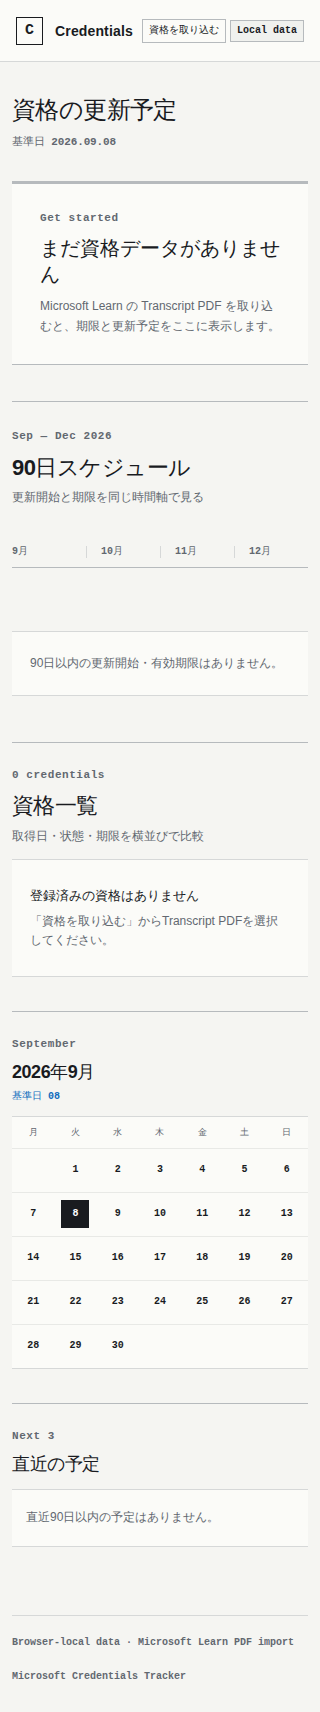
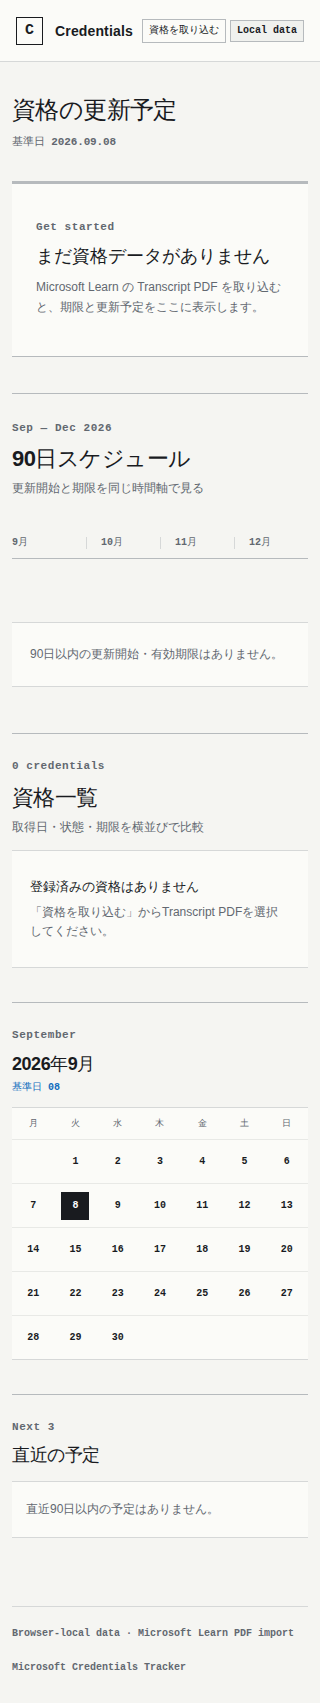
chore(pages): publish pr-21

diff --git a/pr-21/assets/index-CxZuIFb5.css b/pr-21/assets/index-CxZuIFb5.css
@@ -1,0 +1,1 @@
+.import-trigger,.dialog-close,.primary-action{border:1px solid var(--line-strong);background:var(--paper);color:var(--ink);font:inherit;cursor:pointer}.header-meta .import-trigger{margin-right:10px;padding:7px 10px;font-family:inherit;font-size:11px;font-weight:700}.import-trigger:hover,.dialog-close:hover{border-color:var(--ink)}.saved-count{border:1px solid var(--line-strong);place-items:center;min-width:21px;height:21px;margin-right:2px;font:700 10px/1 Consolas,SFMono-Regular,monospace;display:inline-grid}.import-dialog{border:1px solid var(--line-strong);background:var(--paper);width:min(760px,100vw - 32px);max-height:min(86vh,900px);color:var(--ink);padding:0;overflow:auto}.import-dialog::backdrop{background:#191b1f5c}.import-dialog-header{z-index:1;border-bottom:1px solid var(--line);background:var(--paper);justify-content:space-between;align-items:flex-start;gap:24px;padding:24px 28px 18px;display:flex;position:sticky;top:0}.import-dialog-header h2,.import-result-summary h3{margin:0}.import-dialog-header h2{font-size:22px}.dialog-close{width:34px;height:34px;padding:0;font-size:23px;line-height:1}.import-description{color:var(--muted);margin:24px 28px 0;font-size:13px;line-height:1.7}.transcript-field{gap:8px;margin:20px 28px 0;font-size:12px;font-weight:700;display:grid}.transcript-field input{box-sizing:border-box;border:1px solid var(--line-strong);width:100%;min-width:0;max-width:100%;color:var(--ink);background:#fff;padding:12px;font:12px/1.55 Consolas,SFMono-Regular,monospace;overflow:hidden}.transcript-field input[type=file]::file-selector-button{border:1px solid var(--line-strong);background:var(--paper);color:var(--ink);cursor:pointer;margin:-6px 10px -6px -6px;padding:7px 10px;font-family:inherit;font-size:11px;font-weight:700;line-height:1.3}.transcript-field small{color:var(--muted);font-size:10px;font-weight:500;line-height:1.5}.transcript-field input:focus-visible{outline:3px solid var(--focus);outline-offset:2px}.import-actions,.confirm-area{justify-content:space-between;align-items:center;gap:18px;display:flex}.import-actions{margin:14px 28px 28px}.import-actions>span,.confirm-area span{color:var(--muted);font-size:11px;line-height:1.5}.primary-action{border-color:var(--ink);background:var(--ink);color:#fff;padding:9px 13px;font-size:12px;font-weight:700}.primary-action:disabled{cursor:not-allowed;opacity:.45}.load-error{border-left:3px solid var(--warning);background:var(--warning-soft);color:var(--warning);margin:-10px 28px 24px;padding:10px 12px;font-size:12px;line-height:1.6}.import-results{border-top:1px solid var(--line-strong);padding:24px 28px 28px}.import-result-summary{grid-template-columns:minmax(0,1fr) auto;align-items:end;gap:24px;display:grid}.import-result-summary h3{font-size:18px}.import-result-summary dl{gap:20px;margin:0;display:flex}.import-result-summary dl div{text-align:right;gap:3px;display:grid}.import-result-summary dt,.candidate-list dt{color:var(--muted);font-size:10px;font-weight:700}.import-result-summary dd{margin:0;font:700 15px/1 Consolas,SFMono-Regular,monospace}.candidate-list,.exam-results ul,.import-warnings{padding:0;list-style:none}.candidate-list{border-top:1px solid var(--line);margin:20px 0 0}.candidate-list>li{border-bottom:1px solid var(--line);padding:16px 0}.candidate-title{justify-content:space-between;gap:16px;display:flex}.candidate-title strong{font-size:13px;line-height:1.5}.candidate-title>span{color:var(--muted);flex:none;font-size:10px}.candidate-list dl{grid-template-columns:repeat(3,minmax(0,1fr));gap:12px;margin:12px 0 0;display:grid}.candidate-list dl div{gap:4px;display:grid}.candidate-list dd{margin:0;font:600 11px/1.4 Consolas,SFMono-Regular,monospace}.exam-results{border-bottom:1px solid var(--line);margin-top:20px;padding-bottom:16px}.exam-results summary{cursor:pointer;font-size:12px;font-weight:700}.exam-results ul{margin:12px 0 0}.exam-results li{color:var(--muted);grid-template-columns:72px minmax(0,1fr) auto;gap:12px;padding:8px 0;font-size:11px;display:grid}.exam-results li strong{color:var(--ink);font-family:Consolas,SFMono-Regular,monospace}.import-warnings{color:var(--warning);margin:18px 0 0;font-size:11px;line-height:1.6}.import-warnings li+li{margin-top:4px}.confirm-area{border-top:1px solid var(--line-strong);margin-top:22px;padding-top:20px}.confirm-area>div{gap:5px;display:grid}.confirm-area strong{font-size:12px}.save-message{border-left:3px solid var(--active);background:var(--active-soft);margin:16px 0 0;padding:10px 12px;font-size:12px;font-weight:700}@media (width<=720px){.import-dialog-header,.import-results{padding-inline:20px}.import-description,.transcript-field,.import-actions,.load-error{margin-inline:20px}.import-result-summary{grid-template-columns:1fr;align-items:start}.import-result-summary dl{justify-content:space-between}.import-result-summary dl div{text-align:left}.candidate-list dl{grid-template-columns:1fr}.confirm-area{align-items:flex-start}}@media (width<=390px){.header-meta .import-trigger{margin-right:4px;padding:5px 6px;font-size:10px}.import-dialog{width:calc(100vw - 20px)}.import-dialog-header,.import-results{padding-inline:14px}.import-description,.transcript-field,.import-actions,.load-error{margin-inline:14px}.import-actions,.confirm-area,.candidate-title{flex-direction:column;align-items:stretch}.exam-results li{grid-template-columns:62px minmax(0,1fr)}.exam-results time{grid-column:2}}:root{color:#191b1f;font-synthesis:none;text-rendering:optimizelegibility;--ink:#191b1f;--muted:#626870;--line:#d6d8d8;--line-strong:#b6babd;--paper:#fbfbf8;--paper-alt:#f0f1ee;--azure:#0f6cbd;--azure-soft:#eaf3fb;--warning:#b84b10;--warning-soft:#fff1e8;--active:#107c10;--active-soft:#edf7ed;--permanent:#5c6370;--focus:#004578;background:#f5f5f2;font-family:Segoe UI Variable,Segoe UI,Yu Gothic UI,Hiragino Sans,Noto Sans JP,sans-serif}*{box-sizing:border-box}html{scroll-behavior:smooth}body{background:#f5f5f2;min-width:280px;min-height:100vh;margin:0}a{color:inherit}a:focus-visible,button:focus-visible,[tabindex]:focus-visible{outline:3px solid var(--focus);outline-offset:3px}.skip-link{z-index:100;border:2px solid var(--focus);background:#fff;padding:10px 14px;font-weight:700;position:fixed;top:8px;left:8px;transform:translateY(-160%)}.skip-link:focus{transform:translateY(0)}.app-shell{min-height:100vh}.site-header{border-bottom:1px solid var(--line);background:#fbfbf8fa;grid-template-columns:minmax(220px,1fr) auto minmax(220px,1fr);align-items:center;gap:28px;min-height:68px;padding:10px clamp(20px,4vw,64px);display:grid}.brand-block{align-items:center;gap:12px;min-width:0;display:flex}.brand-mark{border:1px solid var(--ink);place-items:center;width:30px;height:30px;font:700 15px/1 Consolas,SFMono-Regular,monospace;display:grid}.brand-block div{gap:1px;min-width:0;display:grid}.brand-block strong{letter-spacing:.01em;font-size:15px}.brand-block span:not(.brand-mark){color:var(--muted);font-size:11px}.header-nav{gap:22px;display:flex}.header-nav a{border-bottom:2px solid #0000;padding:8px 0 6px;font-size:13px;font-weight:600;text-decoration:none}.header-nav a:hover{border-bottom-color:var(--ink)}.header-meta{justify-self:end;align-items:center;gap:12px;font:600 12px/1.2 Consolas,SFMono-Regular,monospace;display:flex}.mock-label{border:1px solid var(--line-strong);background:var(--paper-alt);padding:5px 7px;font-family:inherit;font-size:11px;font-weight:700}.page-frame{width:min(1380px,100% - 40px);margin:0 auto;padding:54px 0 68px}.overview{grid-template-columns:minmax(0,.85fr) minmax(520px,1.15fr);align-items:end;gap:clamp(36px,6vw,90px);padding-bottom:46px;display:grid}.context-label{color:var(--muted);letter-spacing:.05em;margin:0 0 10px;font:700 11px/1.2 Consolas,SFMono-Regular,monospace}.overview-copy h1{letter-spacing:-.045em;max-width:620px;margin:0;font-size:clamp(30px,3.2vw,48px);font-weight:720;line-height:1.18}.overview-copy>p:last-child{max-width:590px;color:var(--muted);margin:20px 0 0;font-size:14px;line-height:1.8}.next-action{border-top:3px solid var(--warning);border-bottom:1px solid var(--line-strong);background:var(--paper);grid-template-columns:132px minmax(0,1fr) 92px;align-items:stretch;min-height:176px;display:grid}.deadline-date,.deadline-credential,.days-left{padding:22px 22px 20px}.deadline-date{border-right:1px solid var(--line);flex-direction:column;justify-content:center;display:flex}.deadline-date>span{color:var(--muted);font-size:11px;font-weight:700}.deadline-date strong{letter-spacing:-.06em;margin-top:8px;font:700 34px/1 Consolas,SFMono-Regular,monospace}.deadline-date small{color:var(--muted);margin-top:7px;font:600 10px/1.3 Consolas,SFMono-Regular,monospace}.deadline-credential{min-width:0}.credential-code{color:var(--azure);letter-spacing:.03em;font:700 12px/1.2 Consolas,SFMono-Regular,monospace}.deadline-credential h2{letter-spacing:-.02em;margin:6px 0 9px;font-size:20px;line-height:1.25}.deadline-credential p{color:var(--muted);margin:11px 0 0;font-size:12px;line-height:1.55}.days-left{border-left:1px solid var(--line);background:var(--warning-soft);justify-content:center;align-items:baseline;gap:5px;display:flex}.days-left strong{color:var(--warning);letter-spacing:-.07em;font:700 39px/1 Consolas,SFMono-Regular,monospace}.days-left span{color:var(--warning);font-size:12px;font-weight:700}.status{align-items:center;gap:7px;font-size:12px;font-weight:700;display:inline-flex}.status-dot{background:currentColor;border-radius:50%;width:7px;height:7px}.status-renewal{color:var(--warning)}.status-active{color:var(--active)}.status-permanent{color:var(--permanent)}.timeline-section{border-top:1px solid var(--line-strong);padding:28px 0 46px}.section-heading{justify-content:space-between;align-items:end;gap:30px;margin-bottom:22px;display:flex}.section-heading h2{letter-spacing:-.025em;margin:0;font-size:22px;line-height:1.25}.section-heading>p{color:var(--muted);margin:0;font-size:12px}.timeline-visual{padding:18px 0 8px}.month-scale{color:var(--muted);grid-template-columns:repeat(3,1fr);margin-bottom:9px;font:600 11px/1.2 Consolas,SFMono-Regular,monospace;display:grid}.month-scale span+span{border-left:1px solid var(--line);padding-left:14px}.timeline-rail{border-top:1px solid var(--line-strong);background-image:linear-gradient(to right, transparent calc(33.333% - 1px), var(--line) calc(33.333% - 1px), var(--line) 33.333%, transparent 33.333%, transparent calc(66.666% - 1px), var(--line) calc(66.666% - 1px), var(--line) 66.666%, transparent 66.666%);height:56px;position:relative}.timeline-pin{left:var(--pin-left);color:var(--muted);justify-items:center;gap:6px;font:700 10px/1 Consolas,SFMono-Regular,monospace;display:grid;position:absolute;top:-5px;transform:translate(-50%)}.timeline-pin:before{content:"";border:2px solid var(--paper);background:currentColor;outline:1px solid;width:9px;height:9px}.timeline-pin-deadline{color:var(--warning)}.timeline-pin-renewal{color:var(--azure)}.timeline-pin-plan{color:#59616d}.timeline-events{border-top:1px solid var(--line);border-bottom:1px solid var(--line);background:var(--paper);grid-template-columns:repeat(4,minmax(0,1fr));gap:0;margin:0;padding:0;list-style:none;display:grid}.timeline-events li{grid-template-rows:auto 1fr auto;gap:10px;min-width:0;min-height:118px;padding:18px 18px 16px;display:grid;position:relative}.timeline-events li+li{border-left:1px solid var(--line)}.timeline-events time,.upcoming-list time{color:var(--muted);font:700 12px/1.2 Consolas,SFMono-Regular,monospace}.timeline-events li>div,.upcoming-list li>div{gap:3px;min-width:0;display:grid}.timeline-events strong,.upcoming-list strong{font-size:13px;line-height:1.4}.timeline-events li>div span,.upcoming-list li>div span{color:var(--muted);font-size:11px;line-height:1.45}.event-key{color:var(--muted);border-left:2px solid;justify-self:start;padding-left:10px;font-size:10px;font-weight:700}.event-key-deadline{color:var(--warning)}.event-key-renewal{color:var(--azure)}.event-key-plan{color:#59616d}.content-grid{grid-template-columns:minmax(0,1fr) minmax(310px,.38fr);align-items:start;gap:34px;display:grid}.register-section,.calendar-section,.upcoming-section{border-top:1px solid var(--line-strong);padding-top:26px}.register-heading{margin-bottom:14px}.table-wrap{overflow-x:auto}.credential-table{border-collapse:collapse;table-layout:fixed;background:var(--paper);border-bottom:1px solid var(--line-strong);width:100%}.credential-table th{border-top:1px solid var(--line);border-bottom:1px solid var(--line-strong);color:var(--muted);text-align:left;padding:12px 14px;font-size:10px;font-weight:700}.credential-table th:first-child{width:44%}.credential-table th:nth-child(2){width:15%}.credential-table th:nth-child(3){width:14%}.credential-table th:nth-child(4){width:27%}.credential-table td{border-bottom:1px solid var(--line);vertical-align:middle;padding:18px 14px;font-size:12px}.credential-table tbody tr:last-child td{border-bottom:0}.credential-table td:first-child{grid-template-columns:56px minmax(0,1fr);align-items:start;gap:12px;display:grid}.credential-table td:first-child strong{font-size:13px;font-weight:650;line-height:1.42}.date-cell{letter-spacing:-.01em;font:600 11px/1.4 Consolas,SFMono-Regular,monospace}.credential-table td:last-child{gap:4px;display:grid}.credential-table td:last-child small{color:var(--muted);font-size:10px;line-height:1.4}.side-column{gap:34px;display:grid}.compact-heading{align-items:center;margin-bottom:14px}.compact-heading h2{font-size:18px}.today-key{color:var(--azure);font:700 10px/1 Consolas,SFMono-Regular,monospace}.calendar{border-collapse:collapse;table-layout:fixed;background:var(--paper);border-top:1px solid var(--line);border-bottom:1px solid var(--line);width:100%}.calendar th{color:var(--muted);padding:9px 2px;font-size:9px;font-weight:700}.calendar td{text-align:center;border-top:1px solid #e8e9e6;height:44px;font:600 10px/1 Consolas,SFMono-Regular,monospace;position:relative}.calendar td.is-today span{background:var(--ink);color:#fff;place-items:center;width:28px;height:28px;display:inline-grid}.calendar td.has-event .calendar-event{background:var(--azure);border-radius:50%;width:4px;height:4px;position:absolute;bottom:5px;left:50%;transform:translate(-50%)}.upcoming-list{border-top:1px solid var(--line);margin:0;padding:0;list-style:none}.upcoming-list li{border-bottom:1px solid var(--line);grid-template-columns:48px minmax(0,1fr);gap:14px;padding:14px 0;display:grid}.site-footer{border-top:1px solid var(--line);width:min(1380px,100% - 40px);color:var(--muted);justify-content:space-between;gap:20px;margin:0 auto;padding:20px 0 28px;font:600 10px/1.4 Consolas,SFMono-Regular,monospace;display:flex}@media (width<=1040px){.site-header{grid-template-columns:1fr auto}.header-nav{display:none}.overview{grid-template-columns:1fr;gap:30px}.next-action{max-width:760px}.content-grid{grid-template-columns:1fr}.side-column{grid-template-columns:repeat(2,minmax(0,1fr))}}@media (width<=720px){.site-header{gap:12px;min-height:62px;padding:9px 16px}.brand-block span:not(.brand-mark),.header-meta time{display:none}.header-meta{gap:0}.page-frame,.site-footer{width:min(100% - 28px,1380px)}.page-frame{padding-top:32px}.overview{padding-bottom:36px}.overview-copy h1{max-width:520px;font-size:clamp(29px,9vw,39px);line-height:1.2}.overview-copy>p:last-child{margin-top:14px;font-size:13px;line-height:1.7}.next-action{grid-template-columns:92px minmax(0,1fr);min-height:0}.deadline-date,.deadline-credential,.days-left{padding:16px}.deadline-date strong{font-size:26px}.deadline-credential h2{font-size:17px}.days-left{border-top:1px solid var(--line);border-left:0;grid-column:1/-1;justify-content:flex-start}.days-left:after{content:" 有効期限まで";color:var(--warning);font-size:11px;font-weight:700}.timeline-events{grid-template-columns:1fr 1fr}.timeline-events li:nth-child(odd){border-left:0}.timeline-events li:nth-child(n+3){border-top:1px solid var(--line)}.section-heading{align-items:start;gap:8px;display:grid}.section-heading>p{max-width:360px}.credential-table,.credential-table tbody,.credential-table tr,.credential-table td{width:100%;display:block}.credential-table thead{clip:rect(0 0 0 0);clip-path:inset(50%);white-space:nowrap;width:1px;height:1px;position:absolute;overflow:hidden}.credential-table tbody tr{border-bottom:1px solid var(--line-strong);padding:14px 0}.credential-table tbody tr:first-child{border-top:1px solid var(--line-strong)}.credential-table td,.credential-table td:first-child,.credential-table td:last-child{border:0;grid-template-columns:98px minmax(0,1fr);gap:10px;padding:7px 14px;display:grid}.credential-table td:before{content:attr(data-label);color:var(--muted);font-size:10px;font-weight:700}.credential-table td:first-child strong,.credential-table td:first-child .credential-code,.credential-table td:last-child small,.credential-table td:last-child .date-cell{grid-column:2}.side-column{grid-template-columns:1fr}.site-footer{display:grid}}@media (width<=390px){.page-frame,.site-footer{width:calc(100% - 24px)}.brand-mark{width:28px;height:28px}.brand-block strong{font-size:14px}.mock-label{padding:4px 6px;font-size:10px}.next-action{grid-template-columns:82px minmax(0,1fr)}.deadline-date,.deadline-credential,.days-left{padding:14px 12px}.deadline-credential h2{overflow-wrap:anywhere}.month-scale{font-size:10px}.timeline-events{grid-template-columns:1fr}.timeline-events li+li,.timeline-events li:nth-child(n+3){border-top:1px solid var(--line);border-left:0}.timeline-events li{grid-template-rows:auto;grid-template-columns:48px minmax(0,1fr) auto;align-items:start;min-height:0;padding:14px 12px}.timeline-events .event-key{align-self:start}.credential-table td,.credential-table td:first-child,.credential-table td:last-child{grid-template-columns:84px minmax(0,1fr);padding-inline:10px}}.sr-only{clip:rect(0, 0, 0, 0);white-space:nowrap;border:0;width:1px;height:1px;margin:-1px;padding:0;position:absolute;overflow:hidden}.status-expired{color:var(--warning)}.next-action-empty{border-top-color:var(--line-strong);grid-template-columns:minmax(0,1fr);align-content:center;min-height:176px;padding:28px}.next-action-empty h2{margin:0;font-size:20px;line-height:1.3}.next-action-empty p:last-child{max-width:620px;color:var(--muted);margin:10px 0 0;font-size:12px;line-height:1.65}.live-month-scale{grid-template-columns:repeat(var(--month-count), minmax(0, 1fr))}.live-timeline-rail{background-image:none}.live-timeline-events{grid-template-columns:repeat(auto-fit,minmax(180px,1fr))}.section-empty,.register-empty,.upcoming-empty{border-block:1px solid var(--line);background:var(--paper);color:var(--muted);font-size:12px;line-height:1.6}.section-empty{padding:22px 18px}.register-empty{gap:5px;padding:26px 18px;display:grid}.register-empty strong{color:var(--ink);font-size:13px}.upcoming-empty{padding:18px 14px}@media (width<=720px){.live-timeline-events{grid-template-columns:1fr}.live-timeline-events li+li{border-left:0;border-top:1px solid var(--line)}}@media (width<=360px){.next-action-empty{padding-inline:24px}.next-action-empty h2{font-size:18px}}

diff --git a/pr-21/index.html b/pr-21/index.html
@@ -6,8 +6,8 @@
     <meta name="theme-color" content="#f5f5f2" />
     <meta name="description" content="Microsoft資格の更新時期を確認するUIモック" />
     <title>Microsoft Credentials Tracker — Mock</title>
-    <script type="module" crossorigin src="/ms-credentials-tracker/pr-21/assets/index-BT21hdJS.js"></script>
-    <link rel="stylesheet" crossorigin href="/ms-credentials-tracker/pr-21/assets/index-DEvR5QVa.css">
+    <script type="module" crossorigin src="/ms-credentials-tracker/pr-21/assets/index-KYYQp9NY.js"></script>
+    <link rel="stylesheet" crossorigin href="/ms-credentials-tracker/pr-21/assets/index-CxZuIFb5.css">
   </head>
   <body>
     <div id="root"></div>
